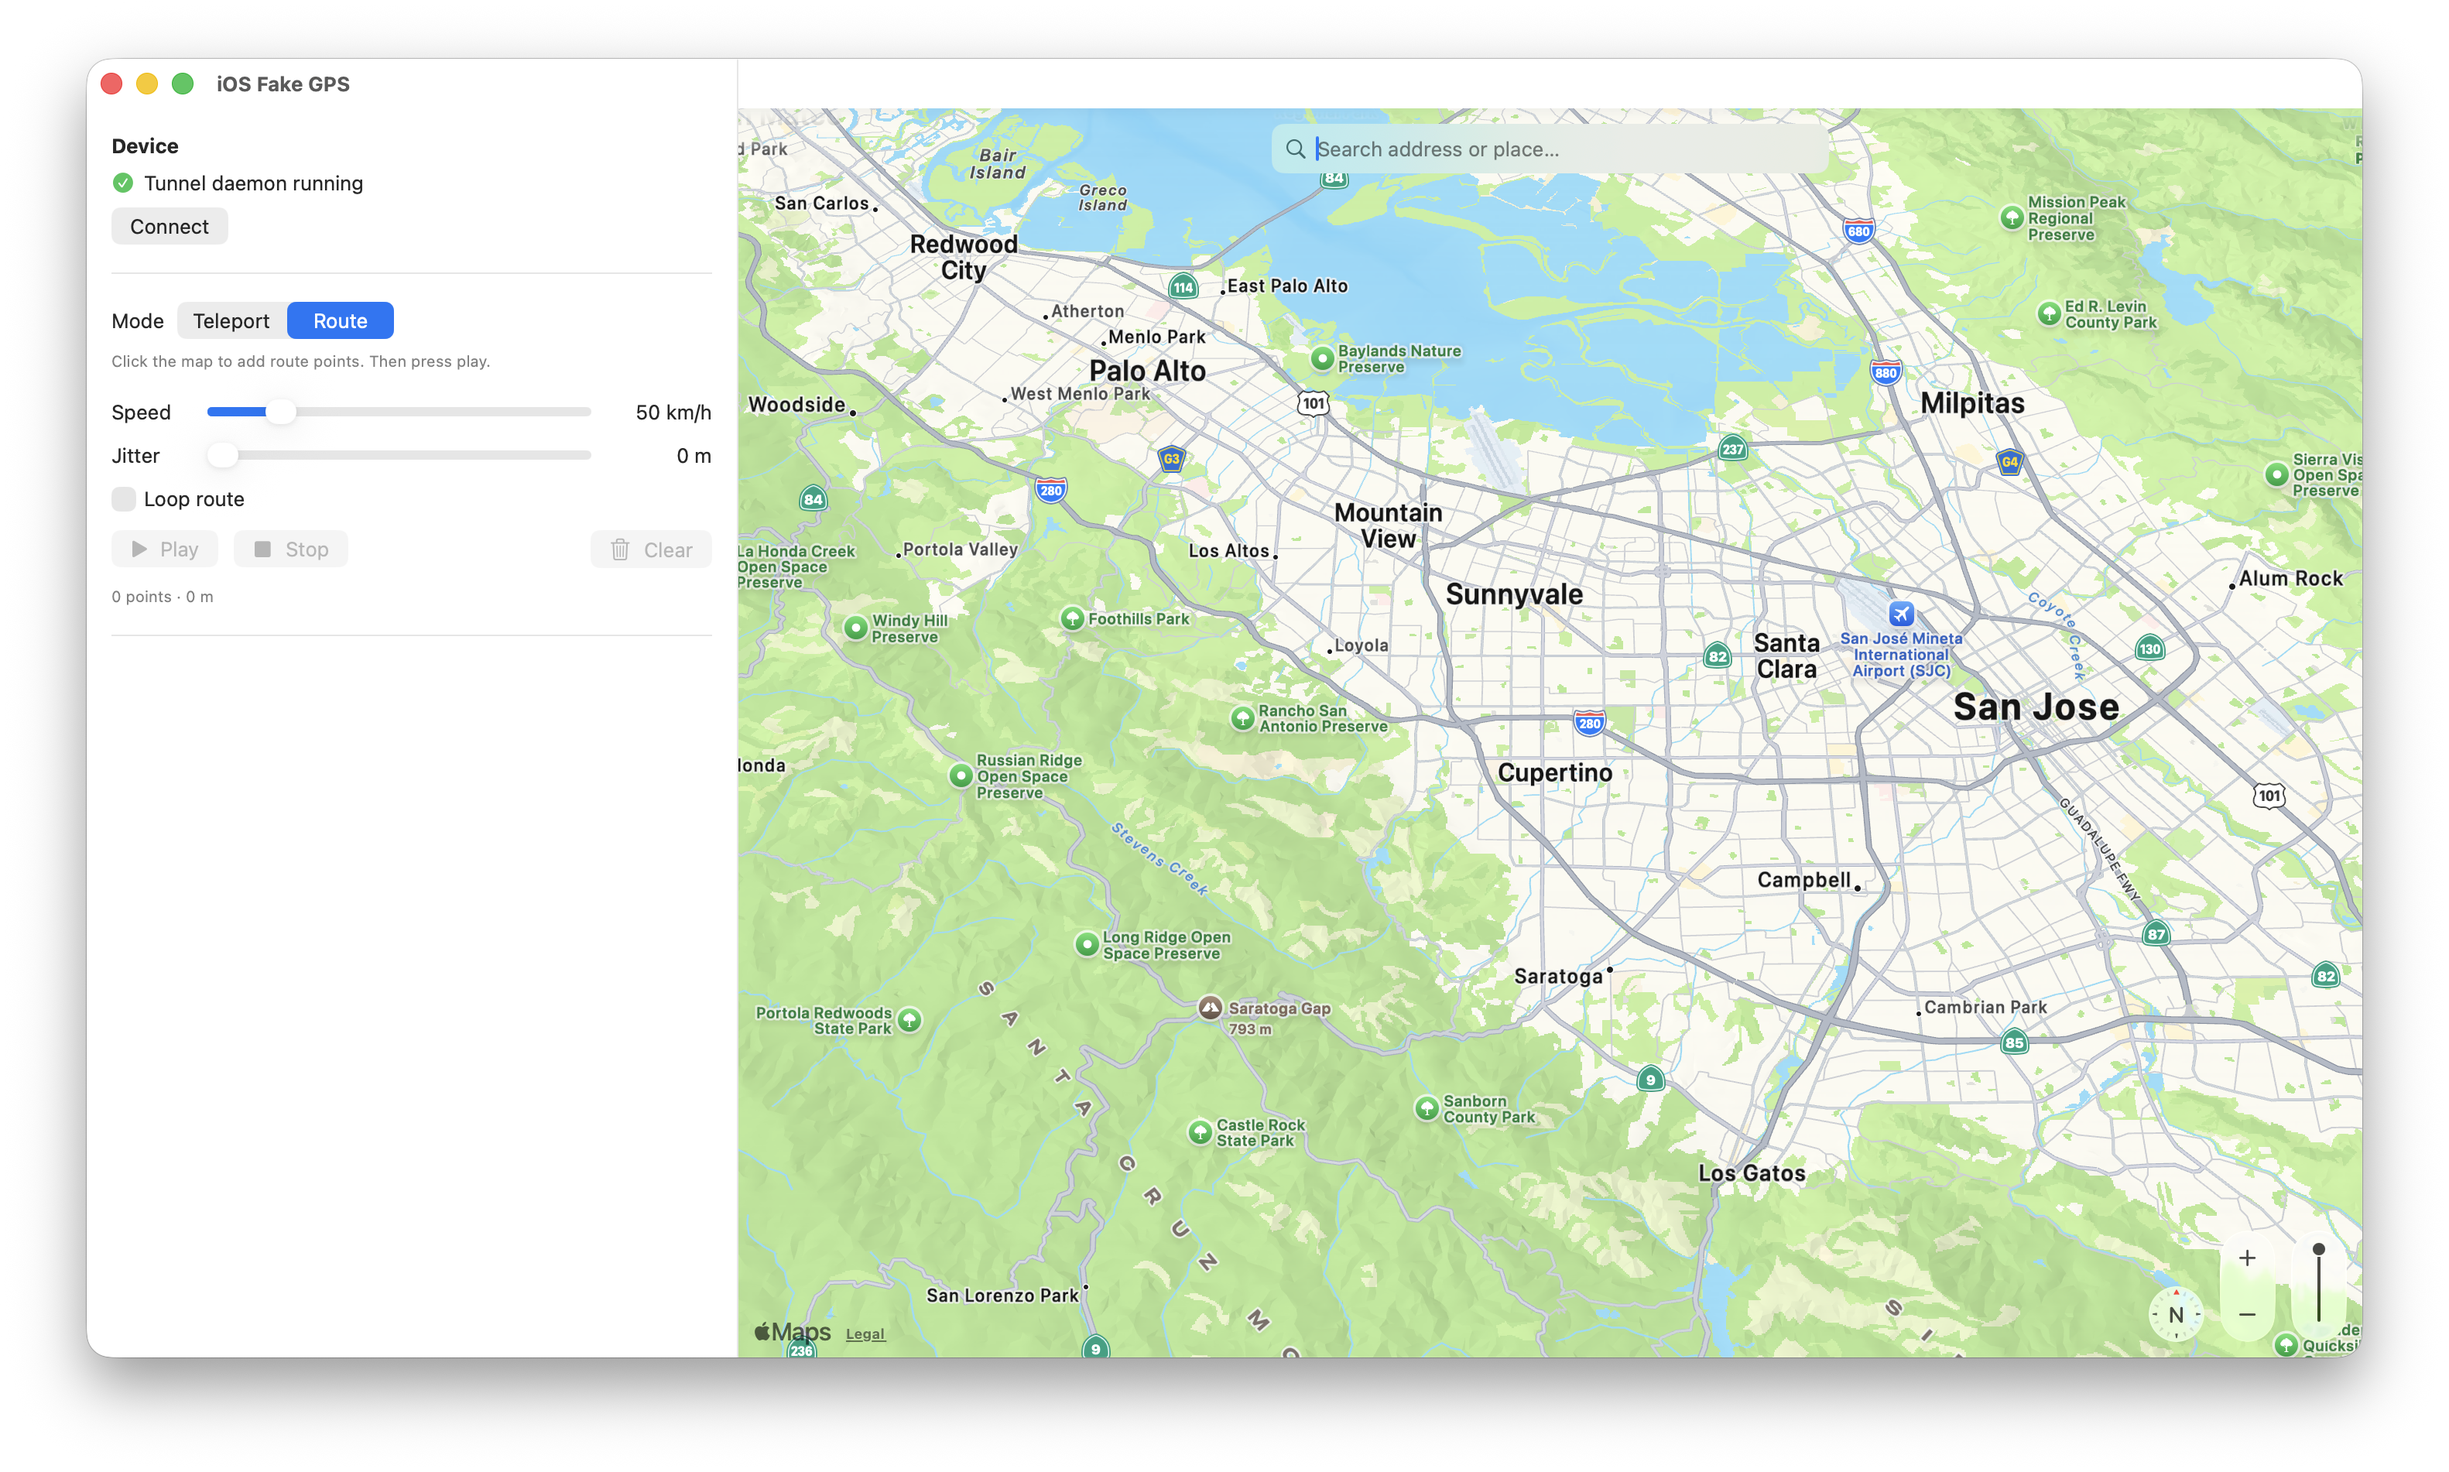
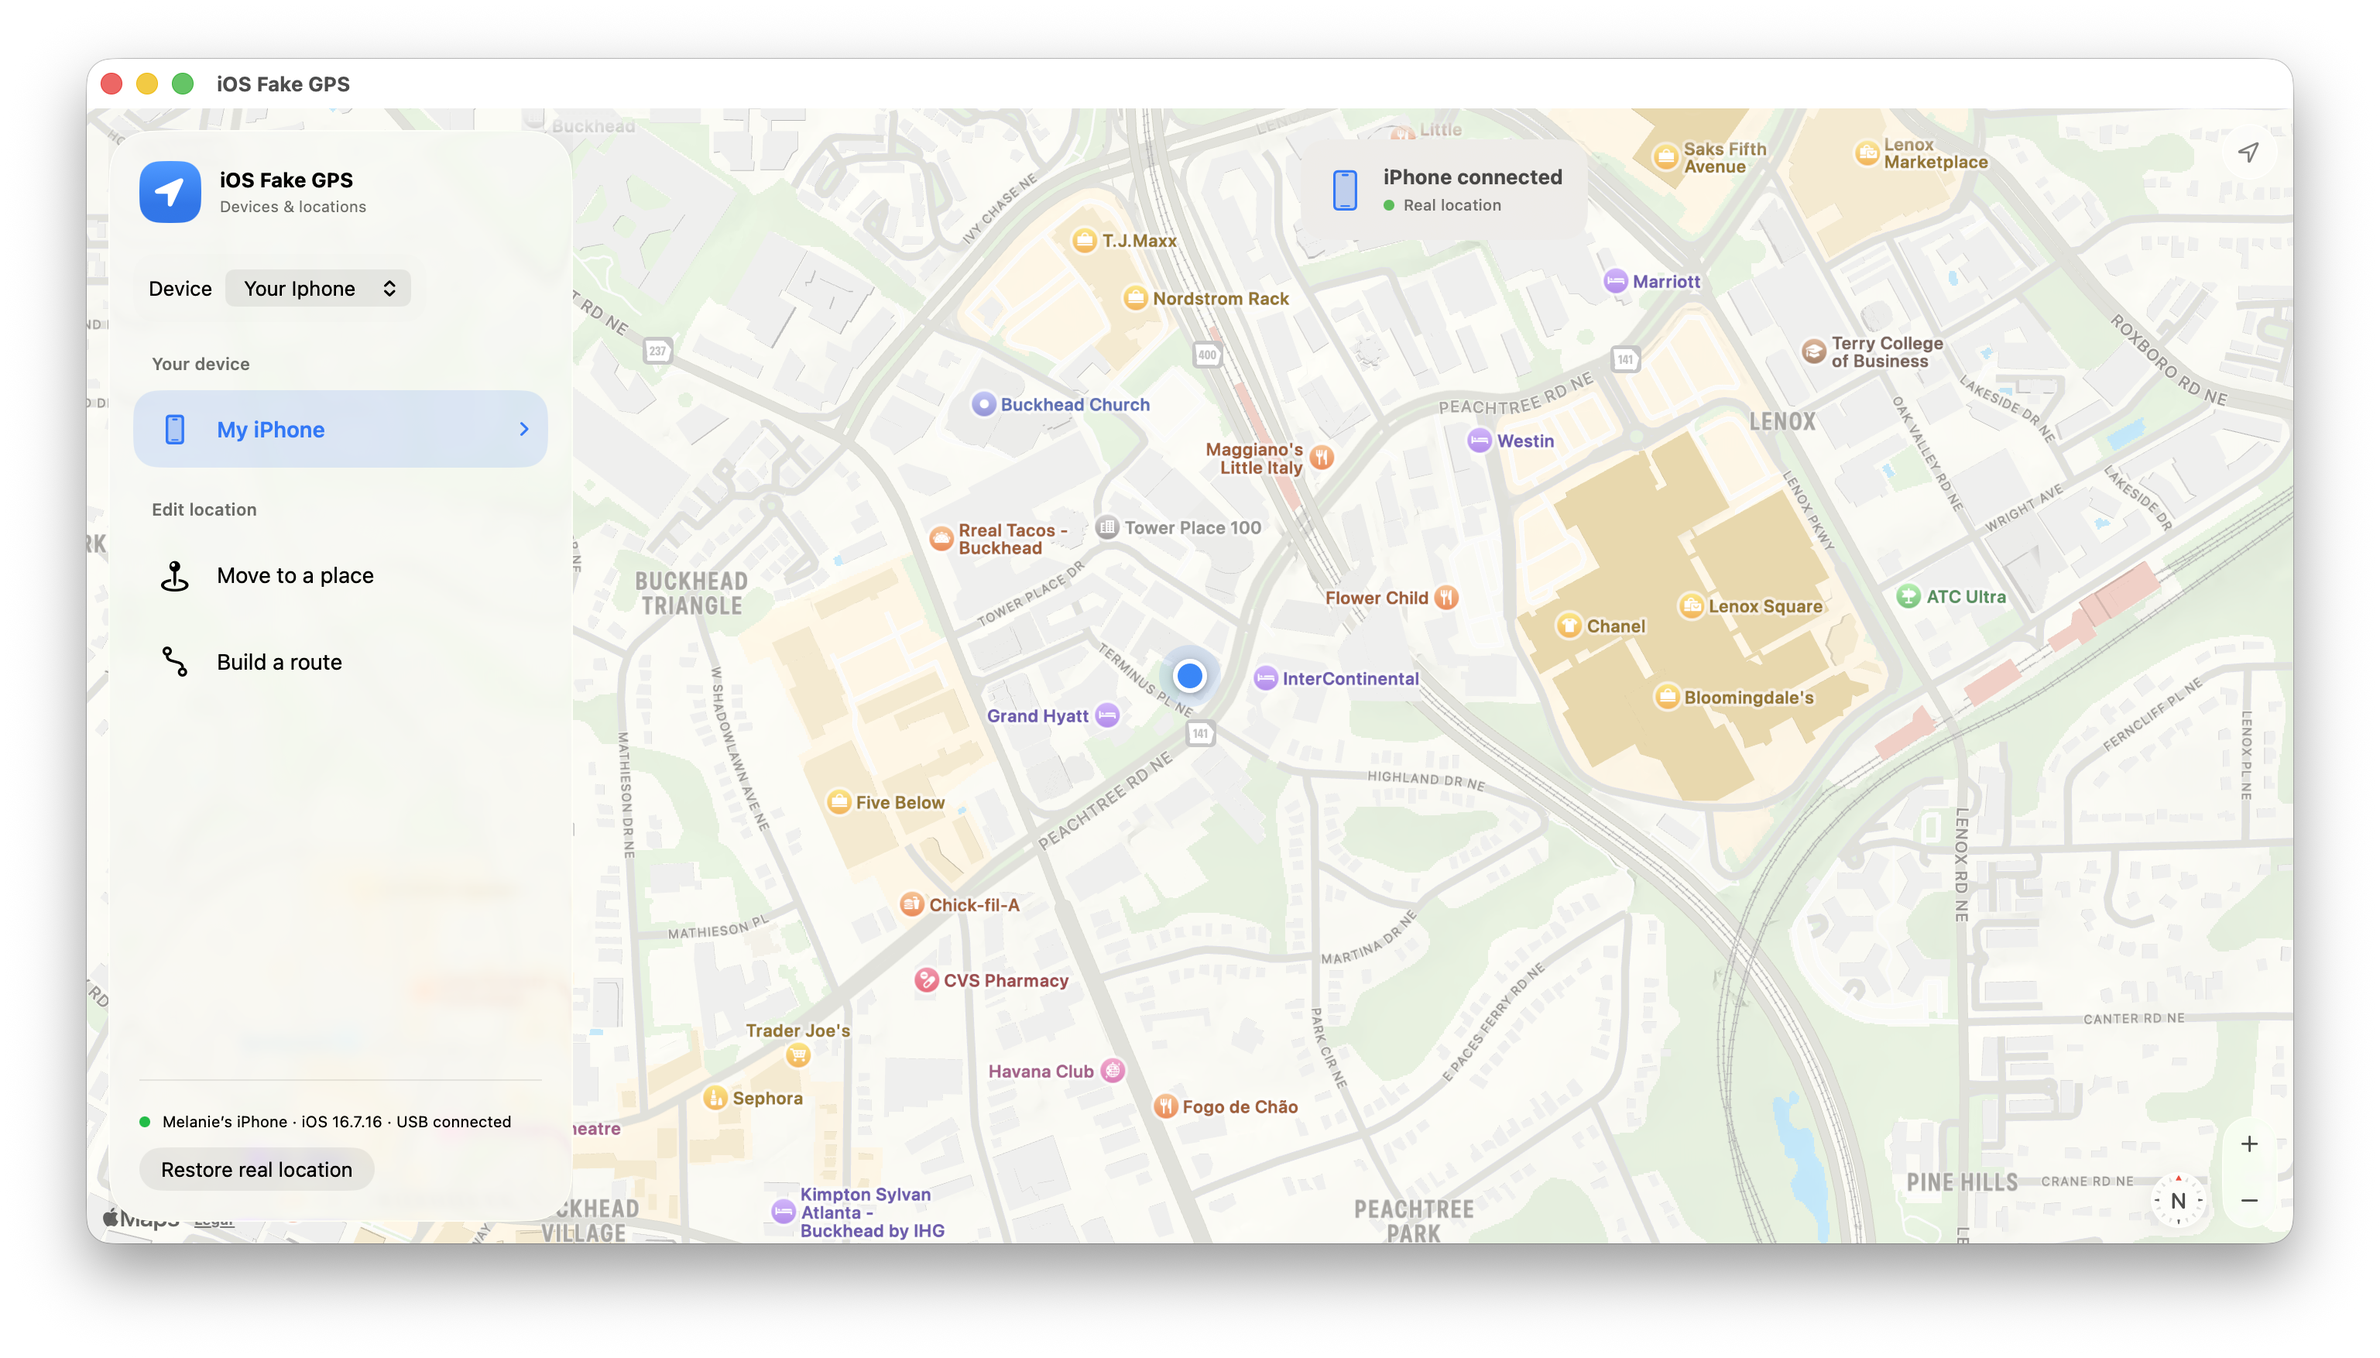
Readme Update

diff --git a/README.md b/README.md
@@ -4,6 +4,8 @@ Set a fixed location, or drive a route along real roads, on a **non-jailbroken**
 iPhone or iPad — all from a native macOS app. The phone just needs to be plugged
 in.
 
+![The macOS app with an iPhone connected, showing its real location](docs/app.png)
+
 iOS has no public "mock location" API, so an app installed *on the phone* can't
 fake GPS for other apps. Instead the location is driven from a tethered Mac over
 Apple's **developer tunnel** — the same mechanism Xcode uses to simulate location
@@ -17,20 +19,33 @@ device.
 
 ## What you can do
 
-- **Pick a device** — iPhone or iPad; the sidebar shows its name, iOS version
-  and UDID suffix, and lets you switch between attached devices.
-- **Move to a place** — search an address or click the map to jump the device
-  there instantly.
-- **Build a route** — choose a starting point (this Mac's current location, or
-  any address) and a destination; MapKit returns a **driving route that follows
-  actual roads**, with its name, total distance and estimated time.
-- **Play it back** — Walk / Cycle / Drive presets or a custom speed up to
-  ~186 mph (300 km/h), with repeat, pause and resume. Positions are pushed at
-  10 Hz, so movement is smooth rather than jumping between waypoints.
-- **See the real state** — the sidebar says *Real location* or *Location
-  edited*, so you always know whether the device is currently faked.
-- **Restore the real location** — one button, and an automatic restore when you
-  disconnect or quit, so you're never left on a fake position.
+Connect a device and the sidebar lists it by name, iOS version and USB status —
+switch between attached iPhones and iPads from the **Device** menu at the top.
+The badge over the map reads *Real location* or *Location edited*, so you always
+know whether the device is currently faked, and **Restore real location** puts it
+back (the app also restores automatically when you disconnect or quit).
+
+From there, two ways to set a location:
+
+### Move to a place
+
+![Searching an address, with the selected destination and a Move here button](docs/select_address.png)
+
+Search a place or address, or click anywhere on the map. The pin shows the
+matched address and its coordinates — hit **Move here** and the device jumps
+there instantly.
+
+### Build a route
+
+![A planned driving route from Atlanta to Clayton, GA with speed presets](docs/build_route.png)
+
+Pick a starting point (this Mac's current location, or any address) and a
+destination. MapKit returns a **driving route that follows actual roads**, with
+its name, total distance and estimated time. Choose **Walk**, **Cycle** or
+**Drive**, or set a custom speed up to ~186 mph (300 km/h), turn on repeat, and
+press **Start route**. Positions are pushed at 10 Hz, so the device moves
+smoothly instead of jumping between waypoints — and you can pause and resume at
+any point.
 
 ## Requirements
 
